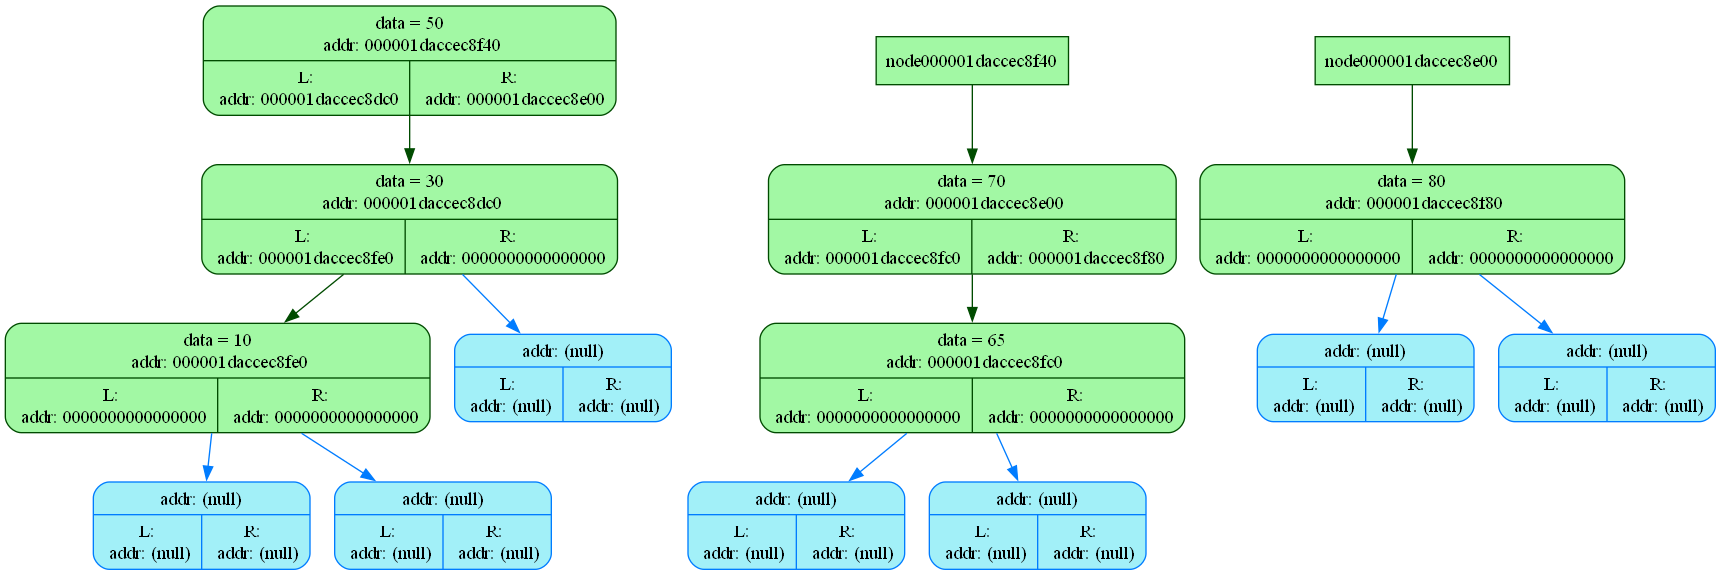
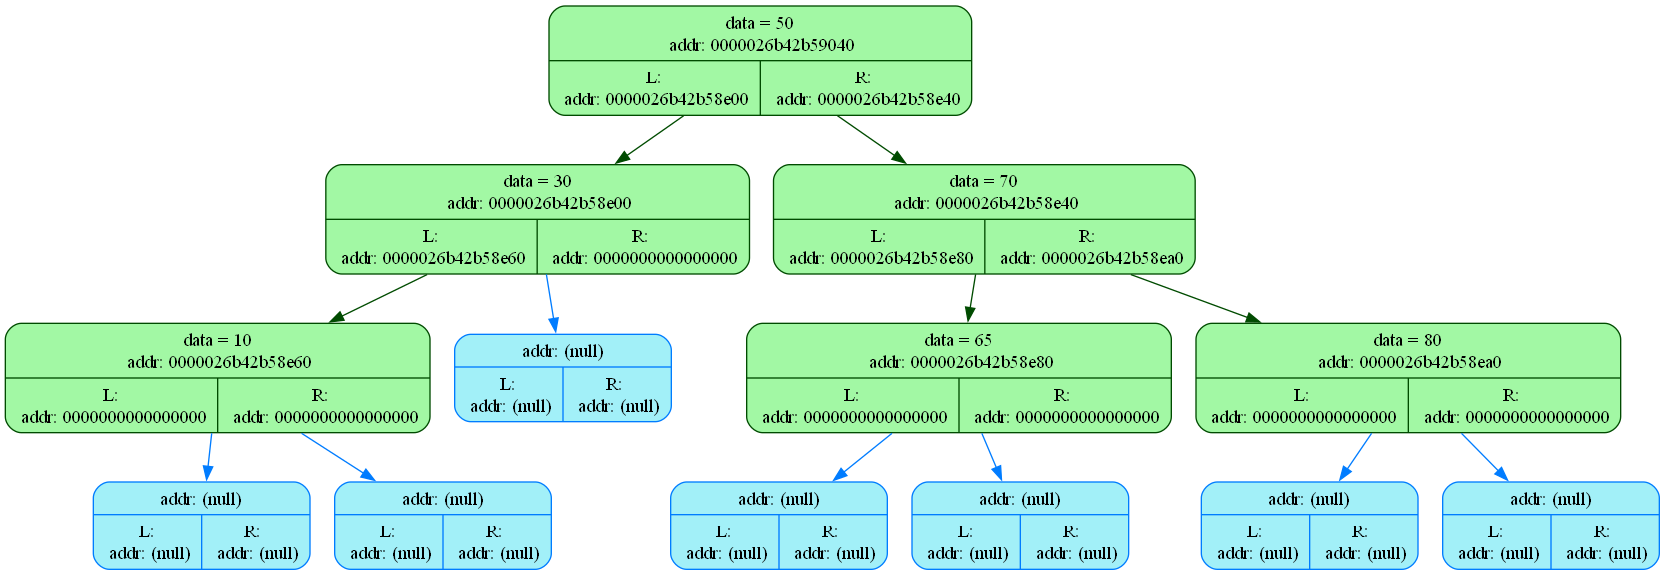
YES!!!!

diff --git a/akinator.cpp b/akinator.cpp
@@ -122,7 +122,7 @@ void Dump_graph_recursive (node_akntr* node)
         fprintf(Graph_File, "\n"   
             "\t\tnode_%p [ shape = \"Mrecord\", label = \" { data = %d\\n addr: %p | { L:\\n addr: %p | R: \\n addr: %p } }\" ];", node -> right, node -> right -> data, node -> right, node -> right -> left, node -> right -> right);
         fprintf(Graph_File, "\n"
-            "\t\tnode%p  -> node_%p;\n", node, node -> right);
+            "\t\tnode_%p  -> node_%p;\n", node, node -> right);
     }
     else {
         fprintf(Graph_File, "\n"
